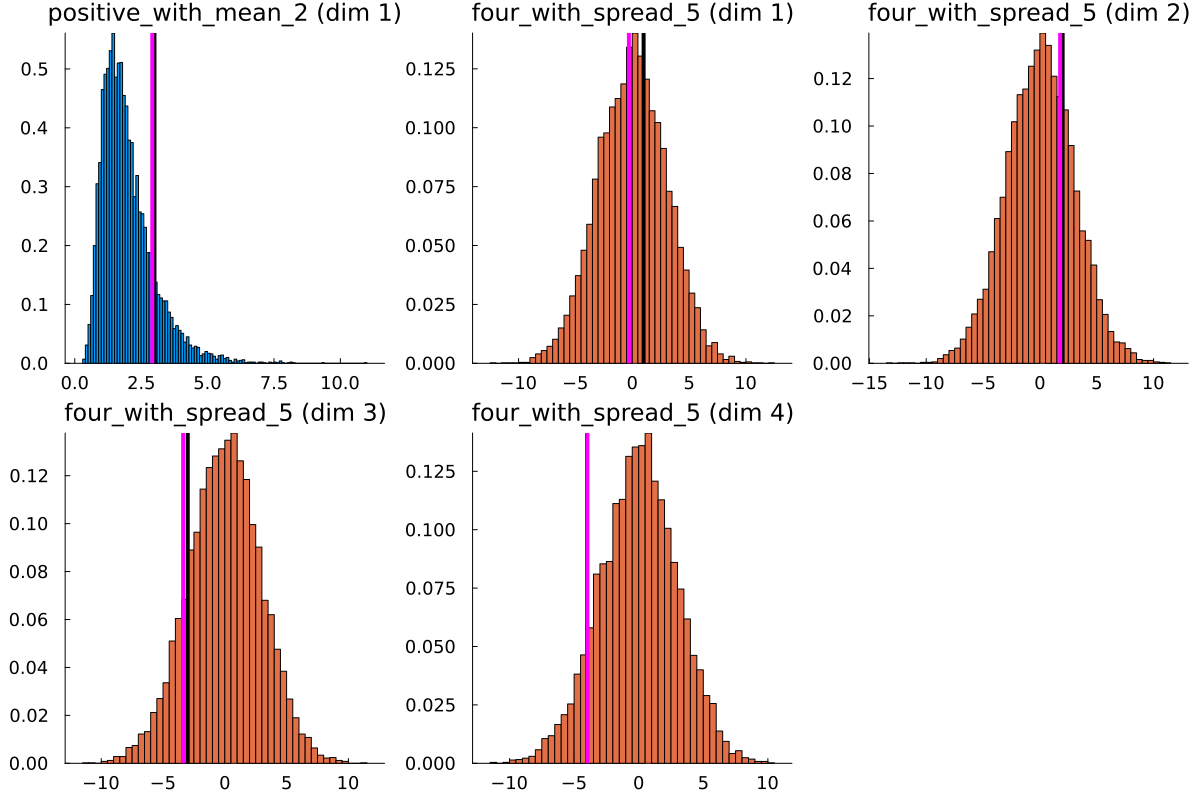
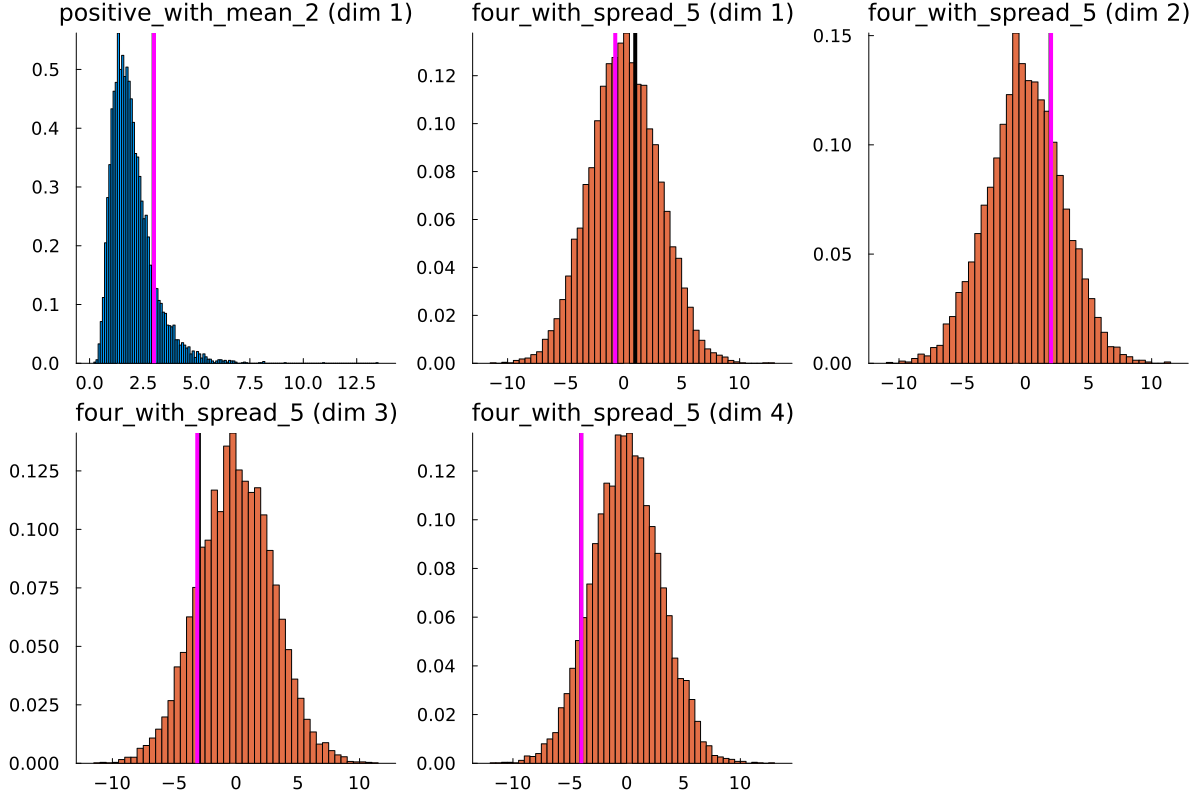
add new readme example and pngs

diff --git a/README.md b/README.md
@@ -139,8 +139,7 @@ mlt = ScalarRandomFeatureInterface(
 
 
 # Define a data encoding recipe for the input-output data
-#encoder_schedule = [(decorrelate_structure_mat(), "in_and_out")]
-encoder_schedule = [(decorrelate_sample_cov(), "in_and_out")]
+encoder_schedule = [(decorrelate_structure_mat(), "in_and_out")]
 encoder_kwargs = (; prior_cov = cov(prior), obs_noise_cov = Γ)
 
 # create emulator and train
@@ -152,8 +151,6 @@ emulator = Emulator(
 )
 
 optimize_hyperparameters!(emulator)
-
-
 ```
 
 We can also predict on a test set - (here the true value), to validate the emulator. We recommend you do much more than just this to check your emulator is working as expected!
@@ -175,7 +172,6 @@ new_step = optimize_stepsize(mcmc; init_stepsize = 1.0, N = 2000, discard_initia
 chain = MarkovChainMonteCarlo.sample(mcmc, 100_000; stepsize = new_step, discard_initial = 2_000) # sample
 
 posterior = MarkovChainMonteCarlo.get_posterior(mcmc, chain)
-
 ```
 
 We can plot the posterior using commands such as:
